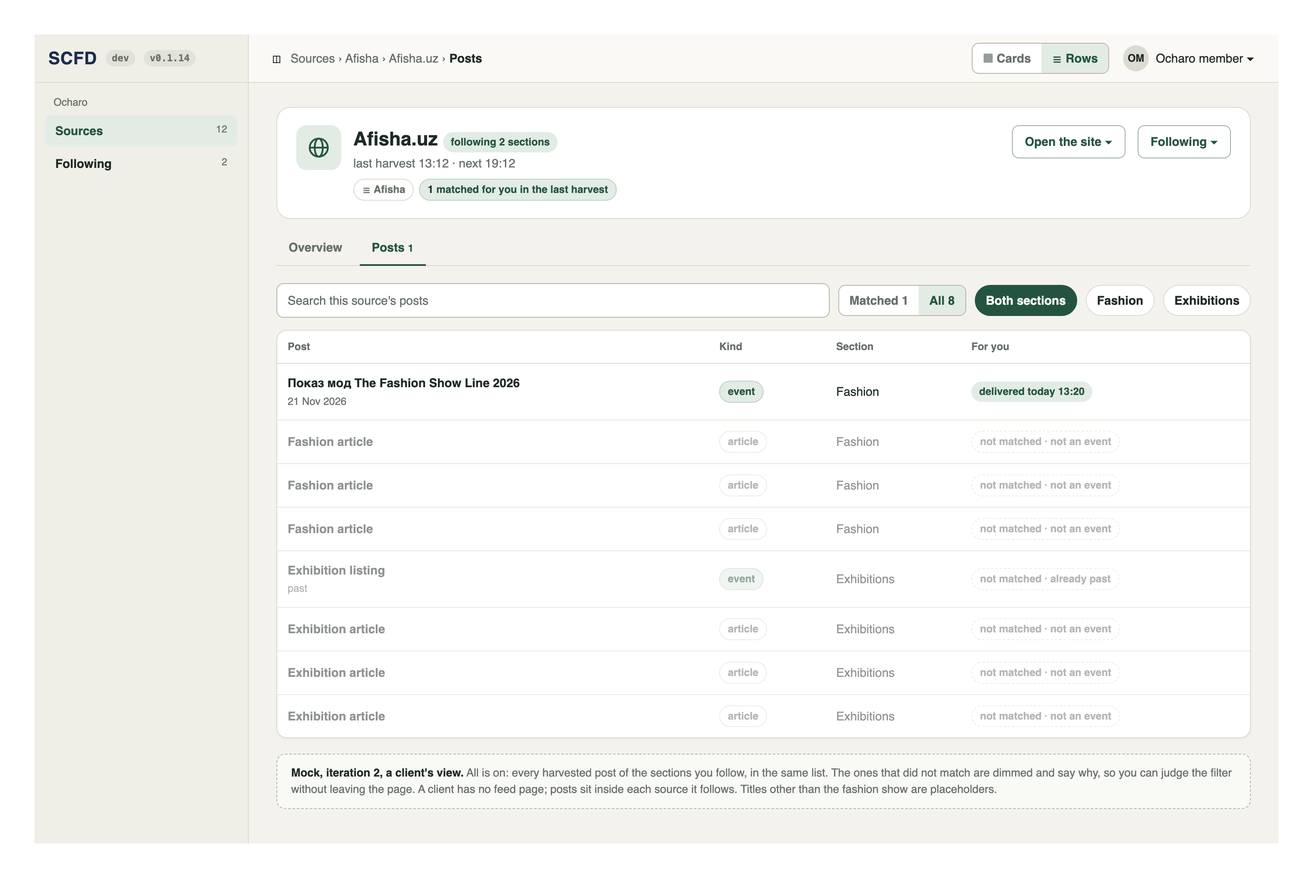
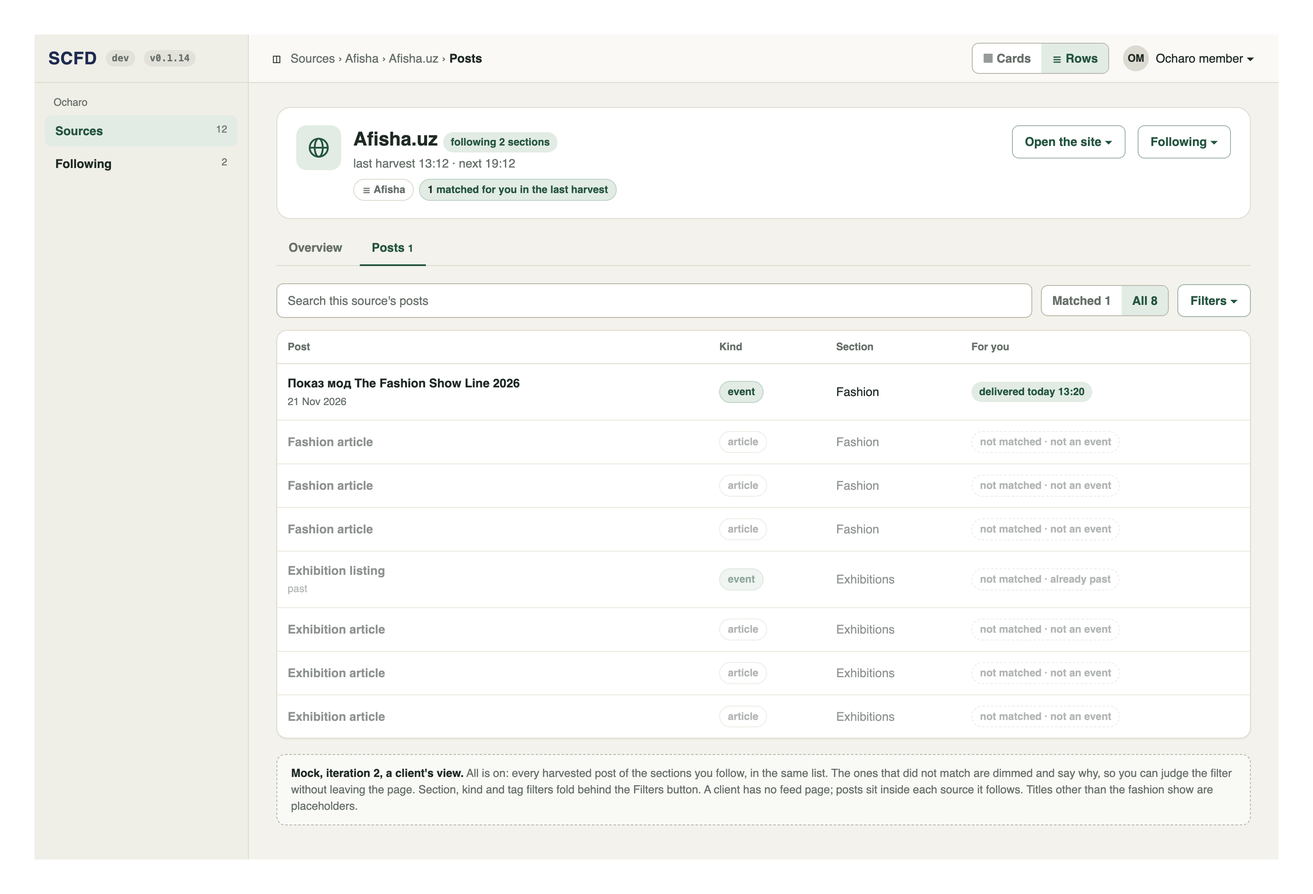
docs: recorded Ocharo's Events app on dev and the folded post filters

diff --git a/system/sessions/events-integration/scfd-console/mocks/iter-2/client-source-posts-filters.html b/system/sessions/events-integration/scfd-console/mocks/iter-2/client-source-posts-filters.html
@@ -1,0 +1,27 @@
+<!doctype html>
+<html lang="en"><head><meta charset="utf-8"><title>SCFD console mock</title>
+<link rel="stylesheet" href="mock.css"></head><body>
+<div class="frame">
+  <aside class="side"><div class="brand">SCFD <span class="chip">dev</span> <span class="chip">v0.1.14</span></div><div class="group">Ocharo</div><span class="nav on">Sources<small>12</small></span><span class="nav">Following<small>2</small></span></aside>
+  <main>
+    <div class="bar"><span>&#9707;</span><span class="crumb">Sources &rsaquo; Afisha &rsaquo; Afisha.uz &rsaquo; <b>Posts</b></span><span class="grow"></span><span class="seg"><span class="">&#9638; Cards</span><span class="on">&#9776; Rows</span></span>
+      <span class="avatar"><i>OM</i> Ocharo member &#9662;</span></div>
+    <div class="page">
+<div class="card hcard"><div class="row"><span class="ico big" title="site"><svg viewBox="0 0 24 24"><circle cx="12" cy="12" r="9"/><ellipse cx="12" cy="12" rx="4" ry="9"/><path d="M3 12h18"/></svg></span><div><h1>Afisha.uz <span class="tag">following 2 sections</span></h1>
+<p class="sub" style="margin:0 0 8px">last harvest 13:12 · next 19:12</p>
+<div class="pills"><span class="pill">&#9776; Afisha</span><span class="pill on"><b>1</b> matched for you in the last harvest</span></div></div>
+<span class="grow"></span><span class="btn">Open the site &#9662;</span><span class="btn">Following &#9662;</span></div></div>
+<div class="tabs"><span class="tab">Overview</span><span class="tab on">Posts <small>1</small></span></div>
+<div class="row" style="margin-bottom:14px"><span class="search">Search this source's posts</span>
+  <span class="seg"><span class="">Matched 1</span><span class="on">All 8</span></span>
+  <span class="btn">Filters &#9652;</span></div>
+<div class="card fpanel"><div class="kv">
+  <span>Section</span><b><span class="pick on">Fashion</span><span class="pick on">Exhibitions</span></b>
+  <span>Kind</span><b><span class="pick on">event</span><span class="pick on">article</span></b>
+  <span>Tags</span><b><span class="pick dim">from AI classification, later</span></b></div></div>
+<div class="card"><table><tr><th>Post</th><th>Kind</th><th>Section</th><th>For you</th></tr><tr class=""><td><b>Показ мод The Fashion Show Line 2026</b><br><small>21 Nov 2026</small></td><td><span class="pill on">event</span></td><td>Fashion</td><td><span class="tag">delivered today 13:20</span></td></tr><tr class="dimmed"><td><b>Fashion article</b></td><td><span class="pill ">article</span></td><td>Fashion</td><td><span class="pill muted">not matched · not an event</span></td></tr><tr class="dimmed"><td><b>Fashion article</b></td><td><span class="pill ">article</span></td><td>Fashion</td><td><span class="pill muted">not matched · not an event</span></td></tr><tr class="dimmed"><td><b>Fashion article</b></td><td><span class="pill ">article</span></td><td>Fashion</td><td><span class="pill muted">not matched · not an event</span></td></tr><tr class="dimmed"><td><b>Exhibition listing</b><br><small>past</small></td><td><span class="pill on">event</span></td><td>Exhibitions</td><td><span class="pill muted">not matched · already past</span></td></tr><tr class="dimmed"><td><b>Exhibition article</b></td><td><span class="pill ">article</span></td><td>Exhibitions</td><td><span class="pill muted">not matched · not an event</span></td></tr><tr class="dimmed"><td><b>Exhibition article</b></td><td><span class="pill ">article</span></td><td>Exhibitions</td><td><span class="pill muted">not matched · not an event</span></td></tr><tr class="dimmed"><td><b>Exhibition article</b></td><td><span class="pill ">article</span></td><td>Exhibitions</td><td><span class="pill muted">not matched · not an event</span></td></tr></table></div>
+<div class="note"><b>Mock, iteration 2, a client's view.</b> All is on: every harvested post of the sections you follow, in the same list. The ones that did not match are dimmed and say why, so you can judge the filter without leaving the page. The other filters stay folded behind Filters; open, they show sections, kinds and, later, tags. A client has no feed page; posts sit inside
+each source it follows. Titles other than the fashion show are placeholders.</div></div>
+  </main>
+  
+</div></body></html>

diff --git a/system/sessions/events-integration/scfd-console/mocks/iter-2/source-afisha-post.html b/system/sessions/events-integration/scfd-console/mocks/iter-2/source-afisha-post.html
@@ -11,9 +11,8 @@
 <p class="sub" style="margin:0 0 8px">last harvest 13:12 · next 19:12</p>
 <div class="pills"><span class="pill">&#9776; Afisha</span><span class="pill warn">last harvest · <b>4</b> new of <b>23</b> found · partial</span></div></div>
 <span class="grow"></span><span class="btn">Open the site &#9662;</span><span class="btn go">Harvest now</span></div></div>
-<div class="tabs"><span class="tab">Overview</span><span class="tab on">Posts <small>8</small></span><span class="tab">Activity <small>4</small></span><span class="tab">Settings</span></div><div class="row" style="margin-bottom:14px"><span class="search">Search this source's posts</span>
-  <span class="filter on">All 8</span><span class="filter">Fashion 4</span><span class="filter">Exhibitions 4</span>
-  <span class="filter">Events 2</span><span class="filter">Articles 6</span></div><div class="card"><table><tr><th>Post</th><th>Kind</th><th>Section</th><th>Harvested</th></tr><tr class="sel"><td><b>Показ мод The Fashion Show Line 2026</b><br><small>21 Nov 2026</small></td><td><span class="pill on">event</span></td><td>Fashion</td><td>today 13:11</td></tr><tr class=""><td><b>Fashion article</b></td><td><span class="pill ">article</span></td><td>Fashion</td><td>today 13:12</td></tr><tr class=""><td><b>Fashion article</b></td><td><span class="pill ">article</span></td><td>Fashion</td><td>today 13:12</td></tr><tr class=""><td><b>Fashion article</b></td><td><span class="pill ">article</span></td><td>Fashion</td><td>today 13:12</td></tr><tr class=""><td><b>Exhibition listing</b><br><small>past</small></td><td><span class="pill on">event</span></td><td>Exhibitions</td><td>today 13:12</td></tr><tr class=""><td><b>Exhibition article</b></td><td><span class="pill ">article</span></td><td>Exhibitions</td><td>today 13:12</td></tr><tr class=""><td><b>Exhibition article</b></td><td><span class="pill ">article</span></td><td>Exhibitions</td><td>today 13:12</td></tr><tr class=""><td><b>Exhibition article</b></td><td><span class="pill ">article</span></td><td>Exhibitions</td><td>today 13:12</td></tr></table></div>
+<div class="tabs"><span class="tab">Overview</span><span class="tab on">Posts <small>8</small></span><span class="tab">Activity <small>4</small></span><span class="tab">Settings</span></div><div class="row" style="margin-bottom:14px"><span class="search">Search this source's 8 posts</span>
+  <span class="btn">Filters &#9662;</span></div><div class="card"><table><tr><th>Post</th><th>Kind</th><th>Section</th><th>Harvested</th></tr><tr class="sel"><td><b>Показ мод The Fashion Show Line 2026</b><br><small>21 Nov 2026</small></td><td><span class="pill on">event</span></td><td>Fashion</td><td>today 13:11</td></tr><tr class=""><td><b>Fashion article</b></td><td><span class="pill ">article</span></td><td>Fashion</td><td>today 13:12</td></tr><tr class=""><td><b>Fashion article</b></td><td><span class="pill ">article</span></td><td>Fashion</td><td>today 13:12</td></tr><tr class=""><td><b>Fashion article</b></td><td><span class="pill ">article</span></td><td>Fashion</td><td>today 13:12</td></tr><tr class=""><td><b>Exhibition listing</b><br><small>past</small></td><td><span class="pill on">event</span></td><td>Exhibitions</td><td>today 13:12</td></tr><tr class=""><td><b>Exhibition article</b></td><td><span class="pill ">article</span></td><td>Exhibitions</td><td>today 13:12</td></tr><tr class=""><td><b>Exhibition article</b></td><td><span class="pill ">article</span></td><td>Exhibitions</td><td>today 13:12</td></tr><tr class=""><td><b>Exhibition article</b></td><td><span class="pill ">article</span></td><td>Exhibitions</td><td>today 13:12</td></tr></table></div>
 <div class="note"><b>Mock, iteration 1, the operator's view.</b> A post opens over the page, with no address of its own: its images, its facts, its revisions and the evidence. Images show inside SCFD only. The pool keeps posts of every kind; a
 subscriber receives only its matches. Revisions show inside a post, not in the list. Titles other than the fashion
 show are placeholders.</div></div>

diff --git a/system/sessions/events-integration/scfd-console/mocks/iter-2/source-afisha-posts.html b/system/sessions/events-integration/scfd-console/mocks/iter-2/source-afisha-posts.html
@@ -11,9 +11,8 @@
 <p class="sub" style="margin:0 0 8px">last harvest 13:12 · next 19:12</p>
 <div class="pills"><span class="pill">&#9776; Afisha</span><span class="pill warn">last harvest · <b>4</b> new of <b>23</b> found · partial</span></div></div>
 <span class="grow"></span><span class="btn">Open the site &#9662;</span><span class="btn go">Harvest now</span></div></div>
-<div class="tabs"><span class="tab">Overview</span><span class="tab on">Posts <small>8</small></span><span class="tab">Activity <small>4</small></span><span class="tab">Settings</span></div><div class="row" style="margin-bottom:14px"><span class="search">Search this source's posts</span>
-  <span class="filter on">All 8</span><span class="filter">Fashion 4</span><span class="filter">Exhibitions 4</span>
-  <span class="filter">Events 2</span><span class="filter">Articles 6</span></div><div class="card"><table><tr><th>Post</th><th>Kind</th><th>Section</th><th>Harvested</th></tr><tr class=""><td><b>Показ мод The Fashion Show Line 2026</b><br><small>21 Nov 2026</small></td><td><span class="pill on">event</span></td><td>Fashion</td><td>today 13:11</td></tr><tr class=""><td><b>Fashion article</b></td><td><span class="pill ">article</span></td><td>Fashion</td><td>today 13:12</td></tr><tr class=""><td><b>Fashion article</b></td><td><span class="pill ">article</span></td><td>Fashion</td><td>today 13:12</td></tr><tr class=""><td><b>Fashion article</b></td><td><span class="pill ">article</span></td><td>Fashion</td><td>today 13:12</td></tr><tr class=""><td><b>Exhibition listing</b><br><small>past</small></td><td><span class="pill on">event</span></td><td>Exhibitions</td><td>today 13:12</td></tr><tr class=""><td><b>Exhibition article</b></td><td><span class="pill ">article</span></td><td>Exhibitions</td><td>today 13:12</td></tr><tr class=""><td><b>Exhibition article</b></td><td><span class="pill ">article</span></td><td>Exhibitions</td><td>today 13:12</td></tr><tr class=""><td><b>Exhibition article</b></td><td><span class="pill ">article</span></td><td>Exhibitions</td><td>today 13:12</td></tr></table></div>
+<div class="tabs"><span class="tab">Overview</span><span class="tab on">Posts <small>8</small></span><span class="tab">Activity <small>4</small></span><span class="tab">Settings</span></div><div class="row" style="margin-bottom:14px"><span class="search">Search this source's 8 posts</span>
+  <span class="btn">Filters &#9662;</span></div><div class="card"><table><tr><th>Post</th><th>Kind</th><th>Section</th><th>Harvested</th></tr><tr class=""><td><b>Показ мод The Fashion Show Line 2026</b><br><small>21 Nov 2026</small></td><td><span class="pill on">event</span></td><td>Fashion</td><td>today 13:11</td></tr><tr class=""><td><b>Fashion article</b></td><td><span class="pill ">article</span></td><td>Fashion</td><td>today 13:12</td></tr><tr class=""><td><b>Fashion article</b></td><td><span class="pill ">article</span></td><td>Fashion</td><td>today 13:12</td></tr><tr class=""><td><b>Fashion article</b></td><td><span class="pill ">article</span></td><td>Fashion</td><td>today 13:12</td></tr><tr class=""><td><b>Exhibition listing</b><br><small>past</small></td><td><span class="pill on">event</span></td><td>Exhibitions</td><td>today 13:12</td></tr><tr class=""><td><b>Exhibition article</b></td><td><span class="pill ">article</span></td><td>Exhibitions</td><td>today 13:12</td></tr><tr class=""><td><b>Exhibition article</b></td><td><span class="pill ">article</span></td><td>Exhibitions</td><td>today 13:12</td></tr><tr class=""><td><b>Exhibition article</b></td><td><span class="pill ">article</span></td><td>Exhibitions</td><td>today 13:12</td></tr></table></div>
 <div class="note"><b>Mock, iteration 1, the operator's view.</b> The Rows view lists every post with its kind, section and harvest time. The pool keeps posts of every kind; a
 subscriber receives only its matches. Revisions show inside a post, not in the list. Titles other than the fashion
 show are placeholders.</div></div>

diff --git a/system/sessions/events-integration/scfd-console/mocks/iter-2/client-source-posts-all.html b/system/sessions/events-integration/scfd-console/mocks/iter-2/client-source-posts-all.html
@@ -14,9 +14,10 @@
 <div class="tabs"><span class="tab">Overview</span><span class="tab on">Posts <small>1</small></span></div>
 <div class="row" style="margin-bottom:14px"><span class="search">Search this source's posts</span>
   <span class="seg"><span class="">Matched 1</span><span class="on">All 8</span></span>
-  <span class="filter on">Both sections</span><span class="filter">Fashion</span><span class="filter">Exhibitions</span></div>
+  <span class="btn">Filters &#9662;</span></div>
+
 <div class="card"><table><tr><th>Post</th><th>Kind</th><th>Section</th><th>For you</th></tr><tr class=""><td><b>Показ мод The Fashion Show Line 2026</b><br><small>21 Nov 2026</small></td><td><span class="pill on">event</span></td><td>Fashion</td><td><span class="tag">delivered today 13:20</span></td></tr><tr class="dimmed"><td><b>Fashion article</b></td><td><span class="pill ">article</span></td><td>Fashion</td><td><span class="pill muted">not matched · not an event</span></td></tr><tr class="dimmed"><td><b>Fashion article</b></td><td><span class="pill ">article</span></td><td>Fashion</td><td><span class="pill muted">not matched · not an event</span></td></tr><tr class="dimmed"><td><b>Fashion article</b></td><td><span class="pill ">article</span></td><td>Fashion</td><td><span class="pill muted">not matched · not an event</span></td></tr><tr class="dimmed"><td><b>Exhibition listing</b><br><small>past</small></td><td><span class="pill on">event</span></td><td>Exhibitions</td><td><span class="pill muted">not matched · already past</span></td></tr><tr class="dimmed"><td><b>Exhibition article</b></td><td><span class="pill ">article</span></td><td>Exhibitions</td><td><span class="pill muted">not matched · not an event</span></td></tr><tr class="dimmed"><td><b>Exhibition article</b></td><td><span class="pill ">article</span></td><td>Exhibitions</td><td><span class="pill muted">not matched · not an event</span></td></tr><tr class="dimmed"><td><b>Exhibition article</b></td><td><span class="pill ">article</span></td><td>Exhibitions</td><td><span class="pill muted">not matched · not an event</span></td></tr></table></div>
-<div class="note"><b>Mock, iteration 2, a client's view.</b> All is on: every harvested post of the sections you follow, in the same list. The ones that did not match are dimmed and say why, so you can judge the filter without leaving the page. A client has no feed page; posts sit inside
+<div class="note"><b>Mock, iteration 2, a client's view.</b> All is on: every harvested post of the sections you follow, in the same list. The ones that did not match are dimmed and say why, so you can judge the filter without leaving the page. Section, kind and tag filters fold behind the Filters button. A client has no feed page; posts sit inside
 each source it follows. Titles other than the fashion show are placeholders.</div></div>
   </main>
   

diff --git a/system/sessions/events-integration/scfd-console/mocks/iter-2/source-afisha-posts-cards.html b/system/sessions/events-integration/scfd-console/mocks/iter-2/source-afisha-posts-cards.html
@@ -11,9 +11,8 @@
 <p class="sub" style="margin:0 0 8px">last harvest 13:12 · next 19:12</p>
 <div class="pills"><span class="pill">&#9776; Afisha</span><span class="pill warn">last harvest · <b>4</b> new of <b>23</b> found · partial</span></div></div>
 <span class="grow"></span><span class="btn">Open the site &#9662;</span><span class="btn go">Harvest now</span></div></div>
-<div class="tabs"><span class="tab">Overview</span><span class="tab on">Posts <small>8</small></span><span class="tab">Activity <small>4</small></span><span class="tab">Settings</span></div><div class="row" style="margin-bottom:14px"><span class="search">Search this source's posts</span>
-  <span class="filter on">All 8</span><span class="filter">Fashion 4</span><span class="filter">Exhibitions 4</span>
-  <span class="filter">Events 2</span><span class="filter">Articles 6</span></div><div class="tiles four"><div class="card pcard"><div class="thumb">post image</div>
+<div class="tabs"><span class="tab">Overview</span><span class="tab on">Posts <small>8</small></span><span class="tab">Activity <small>4</small></span><span class="tab">Settings</span></div><div class="row" style="margin-bottom:14px"><span class="search">Search this source's 8 posts</span>
+  <span class="btn">Filters &#9662;</span></div><div class="tiles four"><div class="card pcard"><div class="thumb">post image</div>
   <div class="pills"><span class="pill on">event</span><span class="pill ">Fashion</span></div>
   <b>Показ мод The Fashion Show Line 2026</b><div class="desc">21 Nov 2026</div></div><div class="card pcard"><div class="thumb">post image</div>
   <div class="pills"><span class="pill ">article</span><span class="pill ">Fashion</span></div>

diff --git a/system/sessions/events-integration/scfd-console/mocks/iter-2/client-source-posts.html b/system/sessions/events-integration/scfd-console/mocks/iter-2/client-source-posts.html
@@ -14,9 +14,10 @@
 <div class="tabs"><span class="tab">Overview</span><span class="tab on">Posts <small>1</small></span></div>
 <div class="row" style="margin-bottom:14px"><span class="search">Search this source's posts</span>
   <span class="seg"><span class="on">Matched 1</span><span class="">All 8</span></span>
-  <span class="filter on">Both sections</span><span class="filter">Fashion</span><span class="filter">Exhibitions</span></div>
+  <span class="btn">Filters &#9662;</span></div>
+
 <div class="card"><table><tr><th>Post</th><th>Kind</th><th>Section</th><th>For you</th></tr><tr class=""><td><b>Показ мод The Fashion Show Line 2026</b><br><small>21 Nov 2026</small></td><td><span class="pill on">event</span></td><td>Fashion</td><td><span class="tag">delivered today 13:20</span></td></tr></table></div>
-<div class="note"><b>Mock, iteration 2, a client's view.</b> Matched is the default: only the posts delivered to you. The switch beside it adds the rest, dimmed. A client has no feed page; posts sit inside
+<div class="note"><b>Mock, iteration 2, a client's view.</b> Matched is the default: only the posts delivered to you. The switch beside it adds the rest, dimmed. Section, kind and tag filters fold behind the Filters button. A client has no feed page; posts sit inside
 each source it follows. Titles other than the fashion show are placeholders.</div></div>
   </main>
   

diff --git a/system/sessions/events-integration/scfd-console/mocks/iter-2/mock.css b/system/sessions/events-integration/scfd-console/mocks/iter-2/mock.css
@@ -140,3 +140,6 @@ table.plain td { padding: 7px 12px 7px 0; border-bottom: 1px solid #ebe9de; }
 .veil { padding-top: 90px; }
 tr.dimmed td { opacity: .5; }
 tr.dimmed td .pill { opacity: 1; }
+.fpanel { padding: 16px 20px; margin-bottom: 14px; border-radius: 12px; box-shadow: none; }
+.fpanel .kv { grid-template-columns: 90px 1fr; row-gap: 10px; align-items: center; }
+.fpanel .pick { margin-bottom: 0; padding: 5px 10px; font-size: 13px; }

diff --git a/system/sessions/events-integration/scfd-console/mocks/iter-2/build.py b/system/sessions/events-integration/scfd-console/mocks/iter-2/build.py
@@ -244,9 +244,8 @@ POSTS = [
     ("Exhibition article", "article", "", "Exhibitions", "today 13:12"),
     ("Exhibition article", "article", "", "Exhibitions", "today 13:12"),
 ]
-POST_FILTERS = """<div class="row" style="margin-bottom:14px"><span class="search">Search this source's posts</span>
-  <span class="filter on">All 8</span><span class="filter">Fashion 4</span><span class="filter">Exhibitions 4</span>
-  <span class="filter">Events 2</span><span class="filter">Articles 6</span></div>"""
+POST_FILTERS = """<div class="row" style="margin-bottom:14px"><span class="search">Search this source's 8 posts</span>
+  <span class="btn">Filters &#9662;</span></div>"""
 
 POST_MODAL = f"""<div class="veil"><div class="card modal">
   <div class="row"><h2 style="margin:0">Показ мод The Fashion Show Line 2026</h2><span class="grow"></span><span class="x">&#10005;</span></div>
@@ -377,7 +376,13 @@ CLIENT_POSTS = [
 ]
 
 
-def client_source_posts(show_all: bool) -> str:
+FILTER_PANEL = f"""<div class="card fpanel"><div class="kv">
+  <span>Section</span><b><span class="pick on">Fashion</span><span class="pick on">Exhibitions</span></b>
+  <span>Kind</span><b><span class="pick on">event</span><span class="pick on">article</span></b>
+  <span>Tags</span><b><span class="pick dim">from AI classification, later</span></b></div></div>"""
+
+
+def client_source_posts(show_all: bool, filters_open: bool = False) -> str:
     rows = ""
     for title, kind, when, section, result, matched in CLIENT_POSTS:
         if not matched and not show_all:
@@ -387,6 +392,10 @@ def client_source_posts(show_all: bool) -> str:
                  f'{"<br><small>" + when + "</small>" if when else ""}</td>'
                  f'<td>{pill(kind, "on" if kind == "event" else "")}</td><td>{section}</td><td>{state}</td></tr>')
     matched_on, all_on = ("", " on") if show_all else (" on", "")
+    if filters_open:
+        note_extra = (" The other filters stay folded behind Filters; open, they show sections, kinds and, later, tags.")
+    else:
+        note_extra = " Section, kind and tag filters fold behind the Filters button."
     note = ("All is on: every harvested post of the sections you follow, in the same list. The ones that did not match "
             "are dimmed and say why, so you can judge the filter without leaving the page."
             if show_all else
@@ -394,9 +403,10 @@ def client_source_posts(show_all: bool) -> str:
     body = client_head("Posts", 1) + f"""
 <div class="row" style="margin-bottom:14px"><span class="search">Search this source's posts</span>
   <span class="seg"><span class="{matched_on.strip()}">Matched 1</span><span class="{all_on.strip()}">All 8</span></span>
-  <span class="filter on">Both sections</span><span class="filter">Fashion</span><span class="filter">Exhibitions</span></div>
+  <span class="btn">Filters {"&#9652;" if filters_open else "&#9662;"}</span></div>
+{FILTER_PANEL if filters_open else ""}
 <div class="card"><table><tr><th>Post</th><th>Kind</th><th>Section</th><th>For you</th></tr>{rows}</table></div>
-<div class="note"><b>Mock, iteration 2, a client's view.</b> {note} A client has no feed page; posts sit inside
+<div class="note"><b>Mock, iteration 2, a client's view.</b> {note}{note_extra} A client has no feed page; posts sit inside
 each source it follows. Titles other than the fashion show are placeholders.</div>"""
     return frame("Sources", "Sources &rsaquo; Afisha &rsaquo; Afisha.uz &rsaquo; <b>Posts</b>", body, client=True, view="rows")
 
@@ -413,6 +423,7 @@ PAGES = {
     "client-sources": lambda: gallery("cards", client=True),
     "client-source-posts": lambda: client_source_posts(False),
     "client-source-posts-all": lambda: client_source_posts(True),
+    "client-source-posts-filters": lambda: client_source_posts(True, filters_open=True),
 }
 
 if __name__ == "__main__":

diff --git a/system/sessions/events-integration/scfd-console/scfd-console-analysis.md b/system/sessions/events-integration/scfd-console/scfd-console-analysis.md
@@ -143,7 +143,11 @@ Orchestrator's picks. Each settles on the mocks, then becomes the page map the s
 - #47 Iteration 2, a client's Posts tab inside a followed source: matched posts by default, and a `Matched | All`
   switch that adds the rest to the same list, dimmed, each saying why it did not match (developer, 2026-11-10: "only
   matched and can switch to all ... maybe in the same panel but with dimmed ?"). One list, no second panel: the
-  contrast shows what the filter dropped. Mocked; awaiting his reaction.
+  contrast shows what the filter dropped. Confirmed by the developer ("yes").
+- #52 Iteration 2, filters: the search and the `Matched | All` switch stay visible; section, kind and, later, tag
+  filters fold behind an expandable Filters panel, on the operator's Posts tab too (developer, 2026-11-10: "for the
+  other tags - hide with extendable panel is better I think"; read as the other filters, to be corrected if he
+  meant something else).
 - #38 Open: the operator's Clients page and a source's Settings and Activity tabs.
 - #39 Open: the word for a part of a source the developer called category and channel, here `section`.
 
@@ -181,6 +185,12 @@ Orchestrator's picks. Each settles on the mocks, then becomes the page map the s
   capture); the branch icon (no `branch` source family yet); naming a run the first harvest (runs cannot prove it).
 - #50 Images on dev: 14 of 14 Afisha posts hold image links; no step stores copies. The post view shows the links,
   loaded with no referrer, inside SCFD only.
+- #51 The local console holds real data since 2026-11-10 (scfd lane): Fashion · Russian and Exhibitions · Russian
+  turned on through Settings, harvests of 4 new of 17 and 4 new of 26 found, 10 posts, 9 with image links, both
+  sections harvesting every 6 hours while the stack runs. Found on the way, held for the developer's review: no
+  console, API or host verb grants a restricted source (the lane opened `afisha.uz` by hand on the local database;
+  an operator grant is in harvest's backlog); the post modal's Place shows the venue without the city; Home and
+  Activity count a harvest that stopped at its page limit as failed or needing attention.
 
 ---
 
@@ -192,5 +202,6 @@ Orchestrator's picks. Each settles on the mocks, then becomes the page map the s
   with its `.png`. `build.py` writes the pages from one
   frame; `render-html.sh` renders each at 1440 px.
 - [`mocks/iter-2/`](mocks/iter-2/) starts iteration 2 from a copy of iteration 1 and adds a client's view:
-  `client-sources`, `client-source-posts` (matched) and `client-source-posts-all` (all, the rest dimmed).
+  `client-sources`, `client-source-posts` (matched), `client-source-posts-all` (all, the rest dimmed) and
+  `client-source-posts-filters` (the Filters panel open).
 - An iteration is final when the developer says so; the next one copies it into `mocks/iter-N/` before changing it.

diff --git a/system/sessions/events-integration/events-integration.md b/system/sessions/events-integration/events-integration.md
@@ -477,6 +477,19 @@ Developer, 2026-10-24 to 2026-11-10; not reopened.
     11 pages in `scfd-console/built-from-mock-1/`. The lane's own choices and what it did not build are analysis
     #48–#50. Next: a real local harvest so the developer can review at `https://localhost:8400/`; adapters `v0.1.13`
     and `ocharo setup --group afisha` on `harvestadapters-dev` (wheelhouse). The console is still not served on dev.
+  - ✅ Ocharo's Events app, the platform lane's done-when on dev, 2026-11-10 (tags checked on GitHub): R1
+    `ocharo-platform` `v0.3.11` (`eb434ed`, deployment `3f330109`) added service and site `events` and Identity
+    client 11 `ocharo-events`; signed in as the owner, the app lists 69 events through its own origin, a tracking save
+    answers 200 twice (revisions 3 → 5), another organization's path answers 404. R2 `v0.3.12` (`2aad1b3`) removed
+    Desk's Events slice, page, routes and client 0's `events` exchange: Desk's events routes answer 404, its old
+    address redirects to the Events app. Every app with a switcher lists Events (`ocharo-marketing` `v0.1.18`,
+    `ocharo-studio` `v0.1.24`). Tests per the lane: Events backend 61 unit and 22 E2E, app 73; Desk 99 unit, 157 E2E,
+    362 frontend. Design: `ocharo-platform` `engineering/research/events-app.md`. Not promoted to prod: the `events`
+    service and client 11 need the same 3 URL keys there. First extraction of #61's order done; Sourcing, Image,
+    Brand, Catalogue and the drafts stay queued, unbuilt.
+  - SCFD adapters `v0.1.13` runs on `harvestadapters-dev` (wheelhouse lane, deployment `6fb89b4b`, migration
+    `006-source-groups`); `ocharo setup --group afisha` put both subscriptions in group `afisha`; `ocharo status`
+    shows both schedules unchanged (6-hour capture, daily check).
 
 ## Contracts
 
